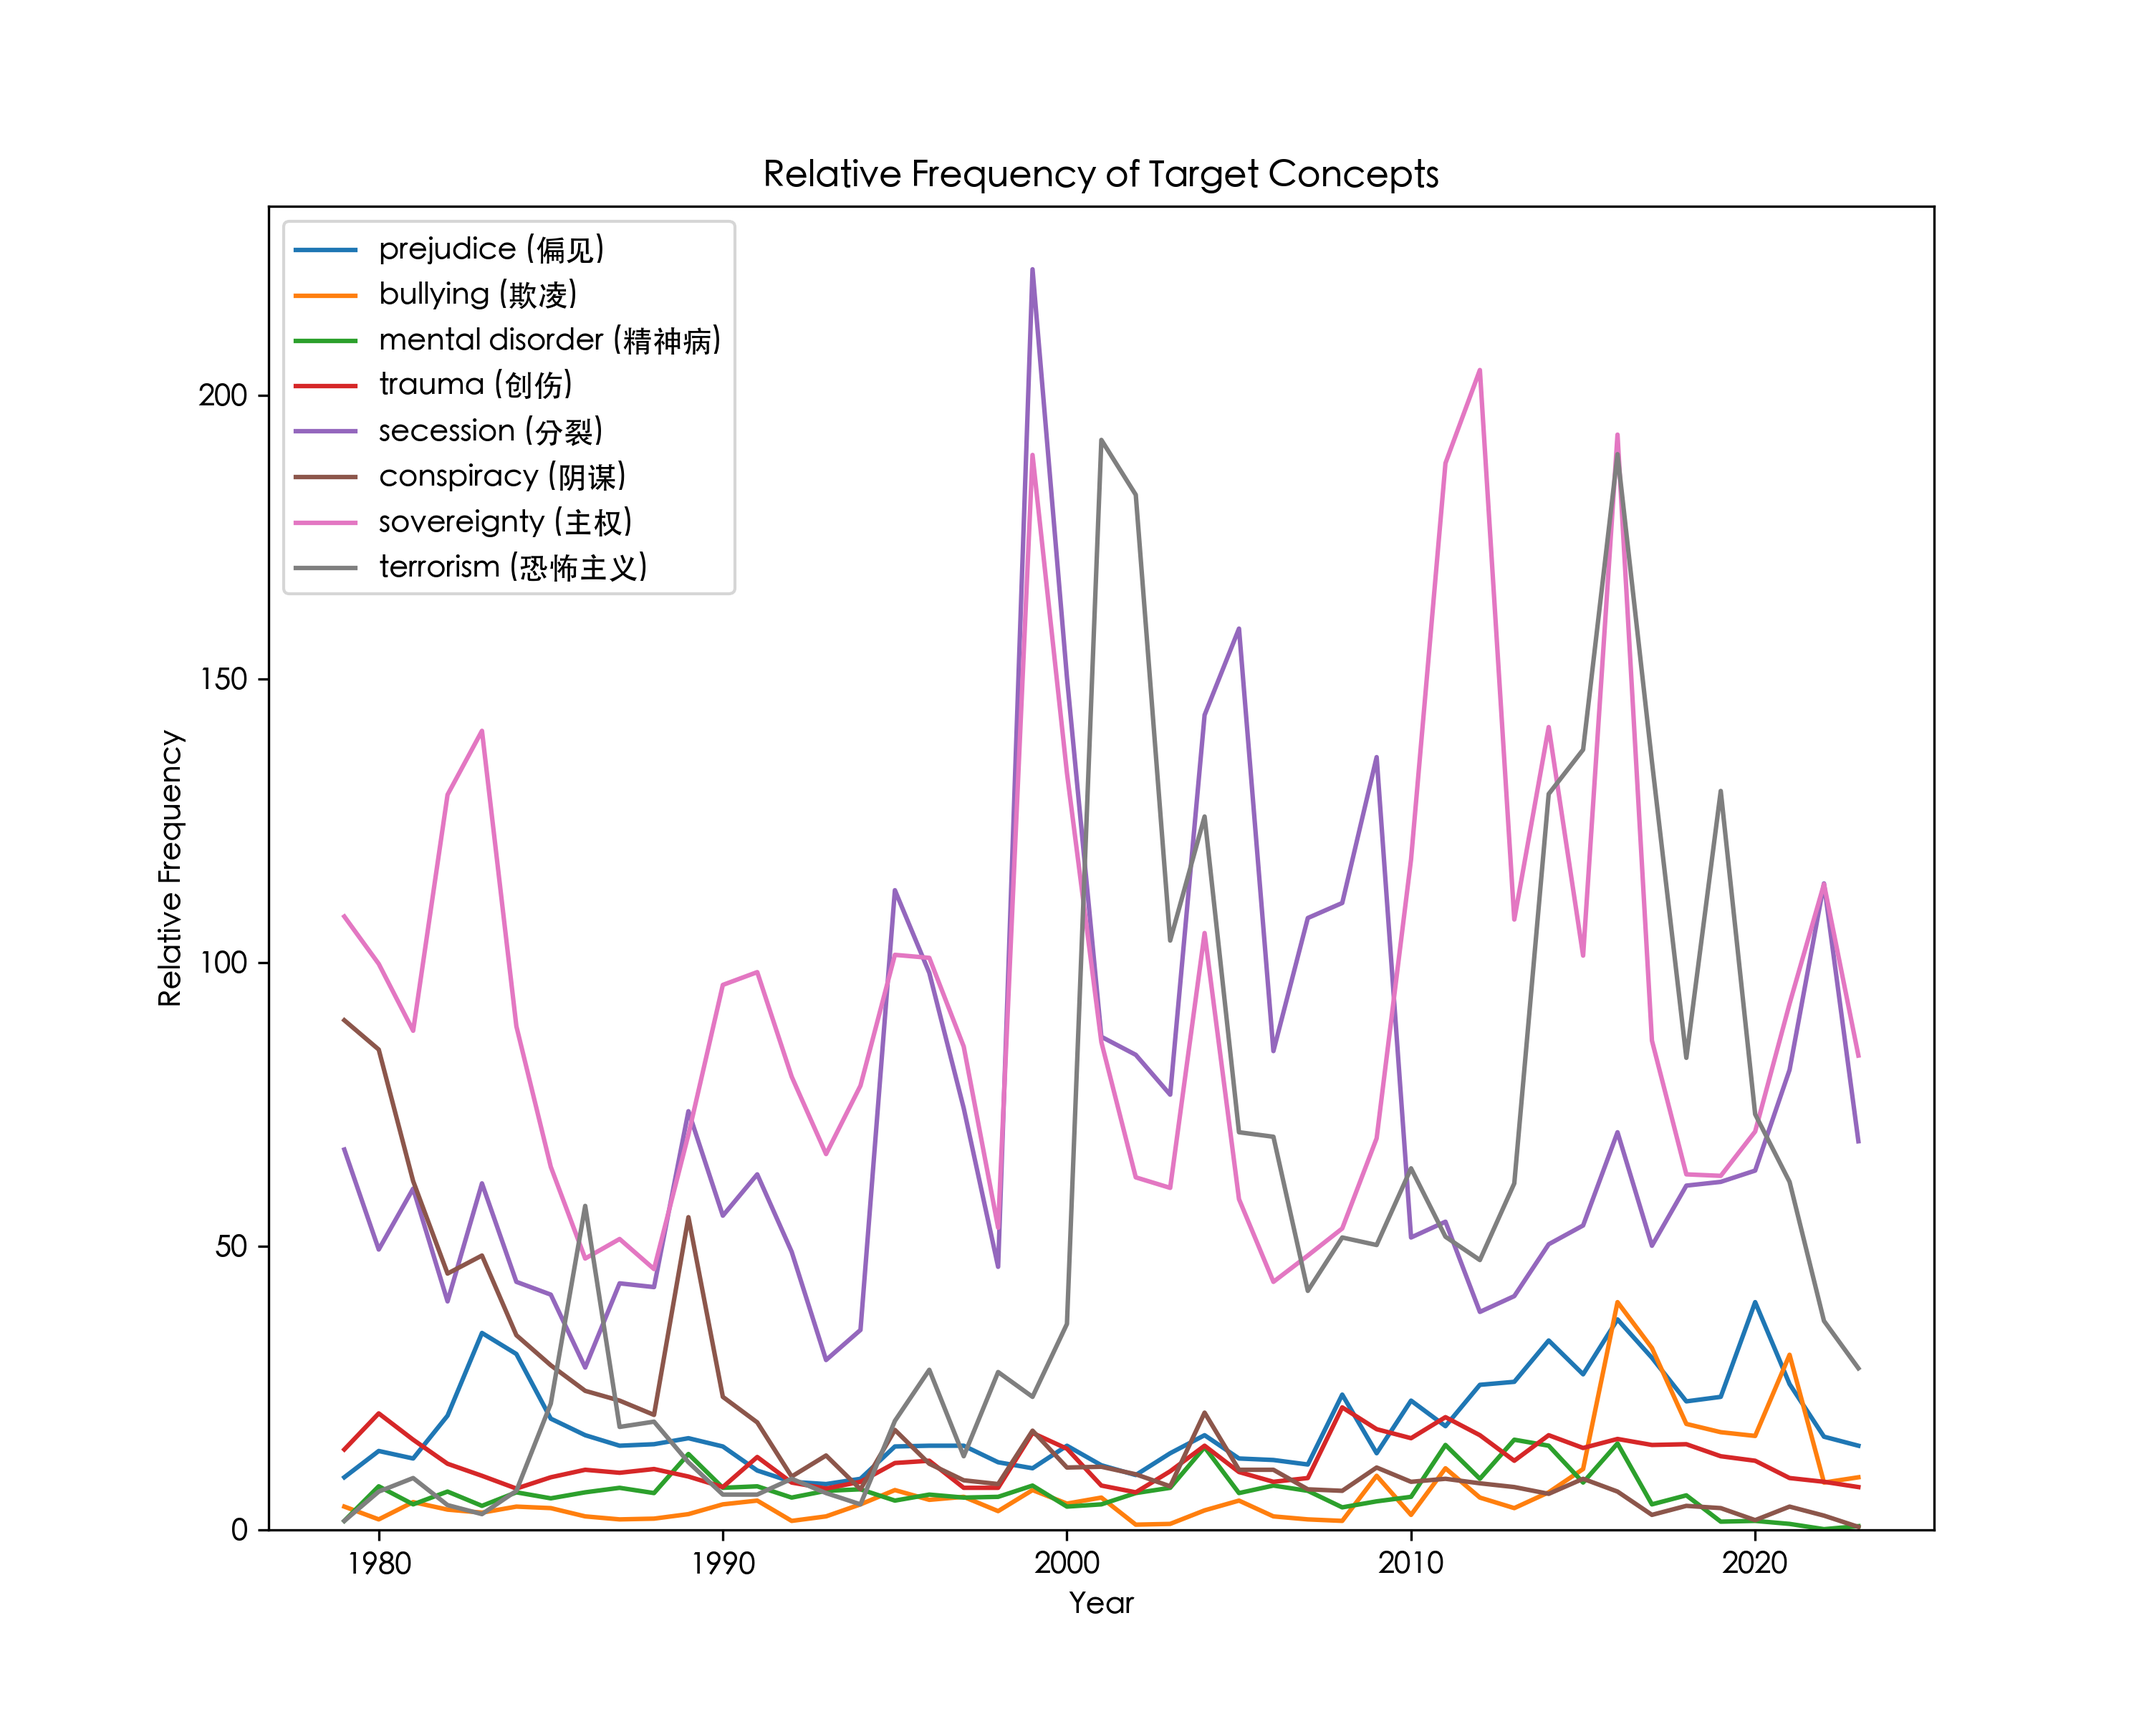
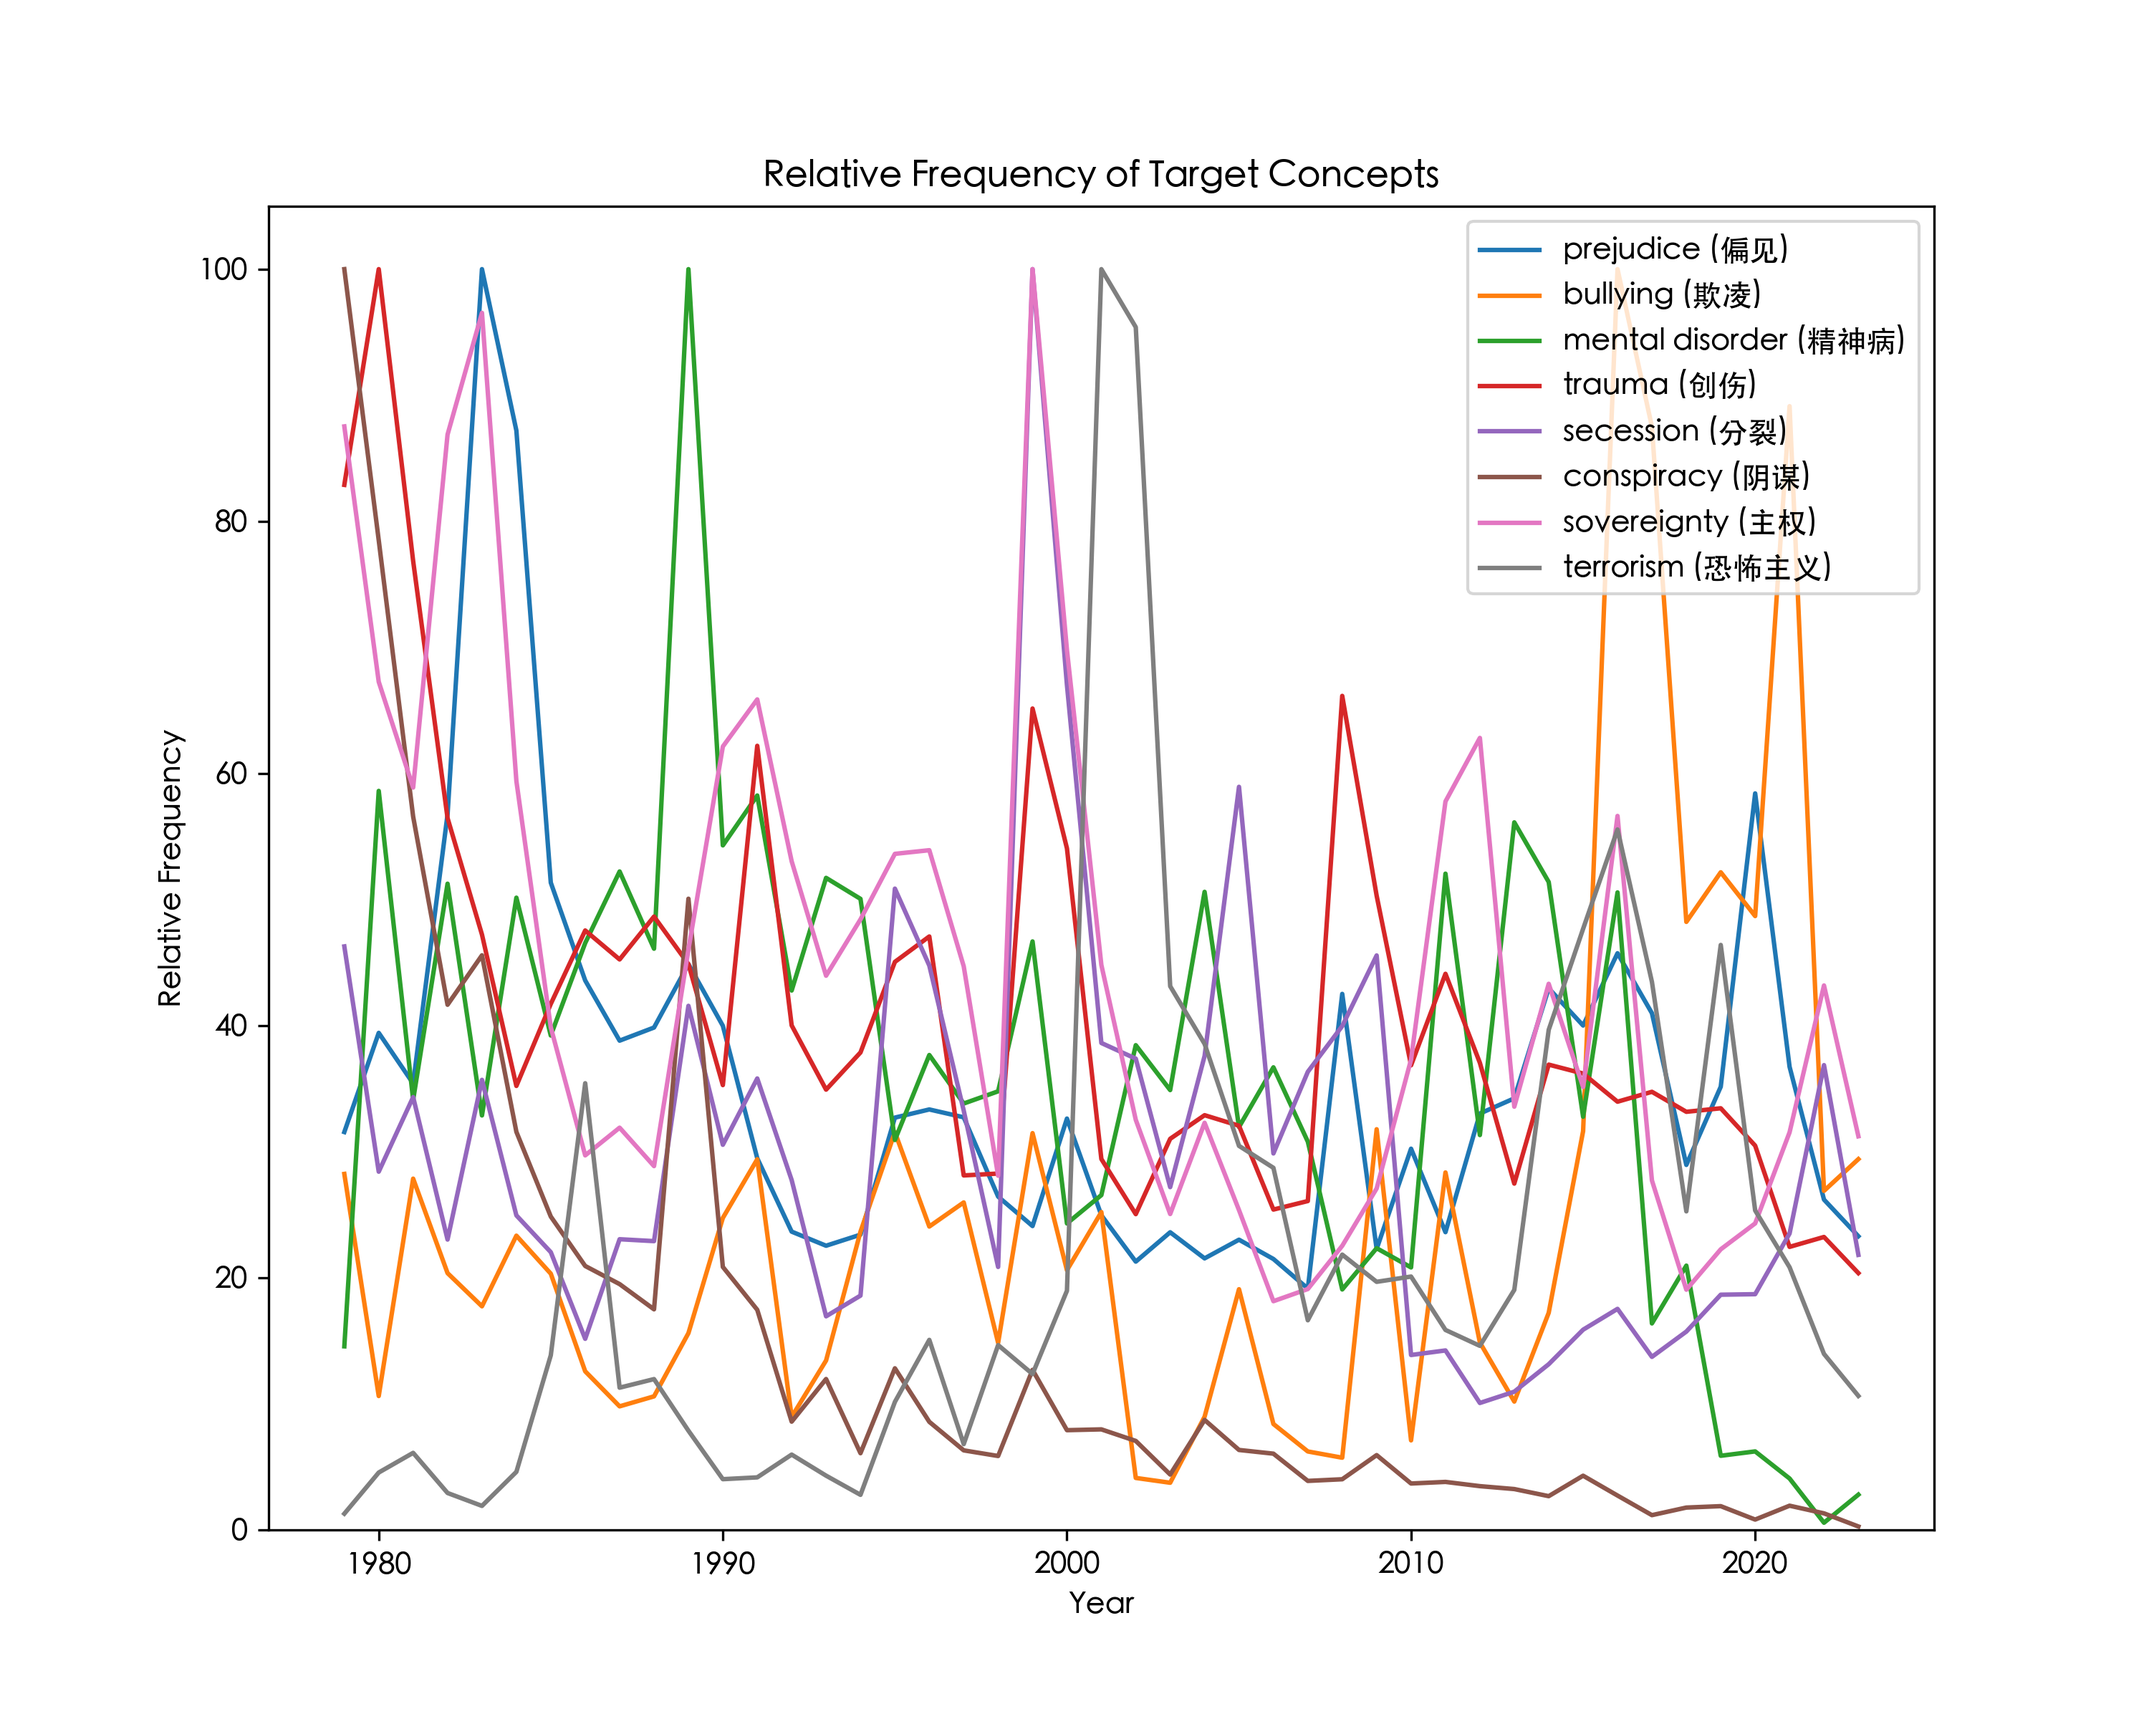
Add frequency plots

diff --git a/1_code/plot_relativefreq_concepts.py b/1_code/plot_relativefreq_concepts.py
@@ -10,12 +10,12 @@ with open(concepts_file, 'r') as f:
     concept_translations = {value[0]: key for key, value in concepts_data.items()}
 
 # Define the corresponding column names of the target concepts
-concepts_columns = [concept[0] + '_freq' for concept in concepts_data.values()]
+concepts_columns = [concept[0] + '_relativefreq' for concept in concepts_data.items()]
 
 # Specify file path
-relativefreq_concepts_path = '/Users/kawaiyuen/nlpworkshop/concept-creep-chi/2_pipeline/tmp/relativefreq_concepts.csv'
+relativefreq_concepts_path = '/Users/kawaiyuen/nlpworkshop/concept-creep-chi/2_pipeline/MAIN-FULL_sb-win-size-5.xlsx'
 # Read relative frequency data
-data = pd.read_csv(relativefreq_concepts_path)
+data = pd.read_excel(relativefreq_concepts_path)
 years = data['Year']
 
 # Set up the figure and axes for the normal plot
@@ -26,13 +26,13 @@ colors = plt.rcParams['axes.prop_cycle'].by_key()['color']
 
 # Iterate over each target concept and create line plots
 for i, concepts_column in enumerate(concepts_columns):
-    # Get the English translation for the current concept
-    english_translation = concept_translations.get(concepts_column.split('_')[0])
+    # Get the Chinese translation for the current concept
+    chinese_concept = concepts_data.get(concepts_column.split("_")[0])[0]
     # Get the color for the current concept
     color = colors[i]
     # Plot relative frequency values for each concept with a unique color
     relativefreq = data[concepts_column]
-    ax.plot(years, relativefreq, label=f'{english_translation} ({concepts_column.split("_")[0]})', color=color)
+    ax.plot(years, relativefreq, label=f'{concepts_column.split("_")[0]} ({chinese_concept})', color=color)
 
 ax.set_ylim(bottom=0)
 ax.set_xlabel('Year')
@@ -54,16 +54,16 @@ fig, ax = plt.subplots(figsize=(10, 8))
 
 # Iterate over each target concept and create line plots
 for i, concepts_column in enumerate(concepts_columns):
-    # Get the English translation for the current concept
-    english_translation = concept_translations.get(concepts_column.split('_')[0])
+    # Get the Chinese translation for the current concept
+    chinese_concept = concepts_data.get(concepts_column.split("_")[0])[0]
     # Get the color for the current concept
     color = colors[i]
     # Plot relative frequency values for each concept with a unique color
     relativefreq = data[concepts_column]
-    ax.plot(years, relativefreq, alpha=0.6, linestyle='dashed',linewidth=0.6, color=color)
+    ax.plot(years, relativefreq, alpha=0.7, linestyle='dashed',linewidth=0.6, color=color)
     # Calculate and plot moving average with window=5
     moving_average = data[concepts_column].rolling(window=5, min_periods=1).mean()
-    ax.plot(years, moving_average, label=f'{english_translation} ({concepts_column.split("_")[0]})', linewidth=2.4, color=color)
+    ax.plot(years, moving_average, label=f'{concepts_column.split("_")[0]} ({chinese_concept})', linewidth=2, color=color)
 
 ax.set_ylim(bottom=0)
 ax.set_xlabel('Year')
